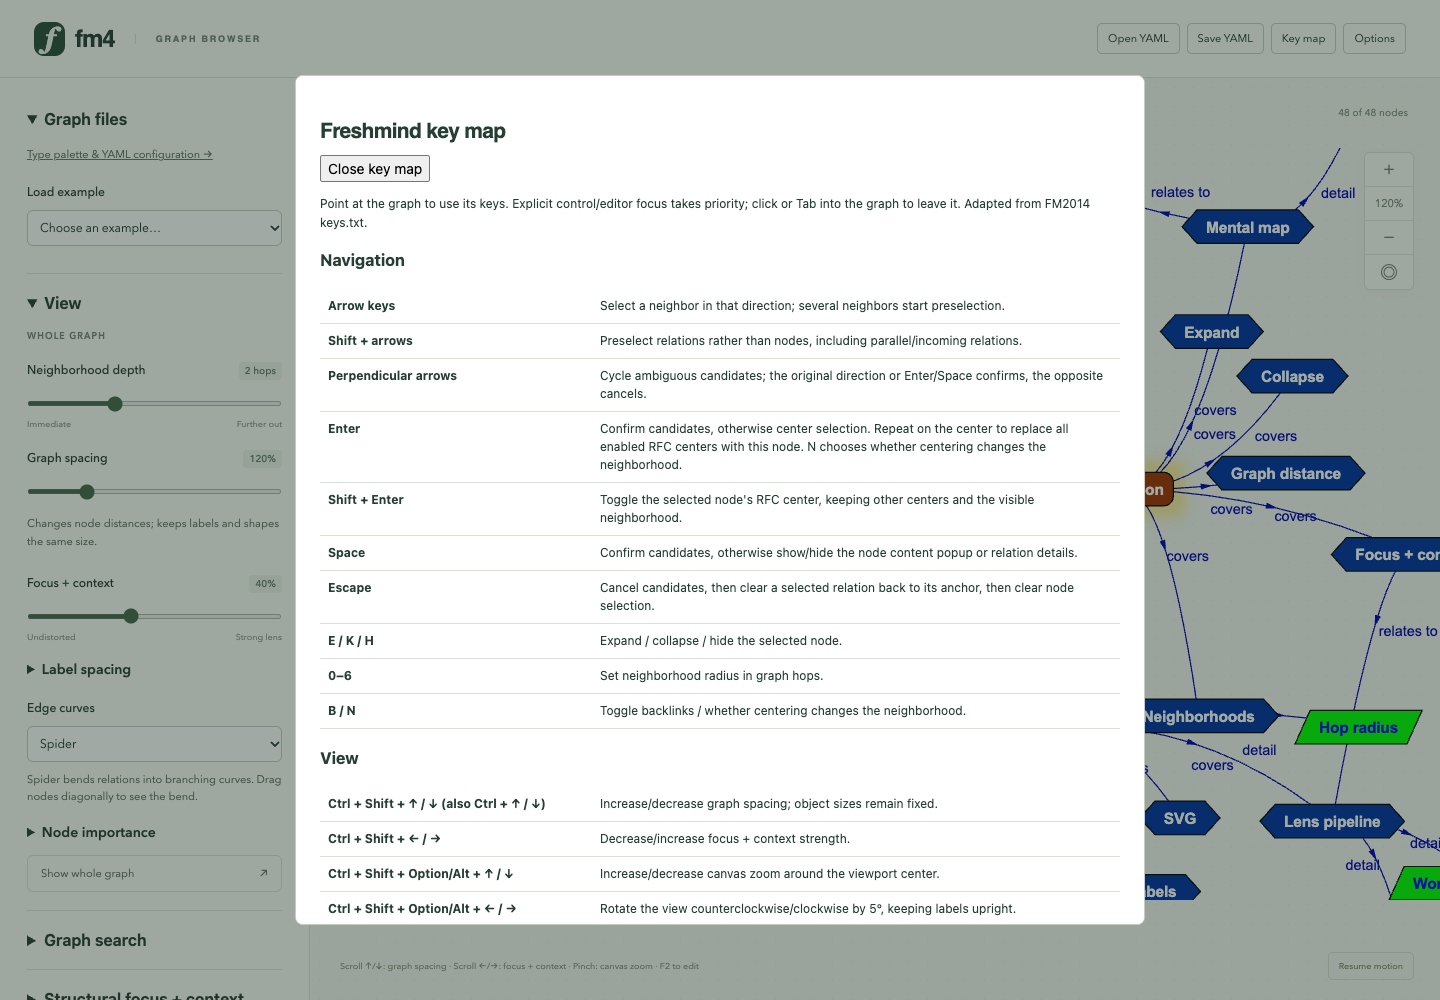
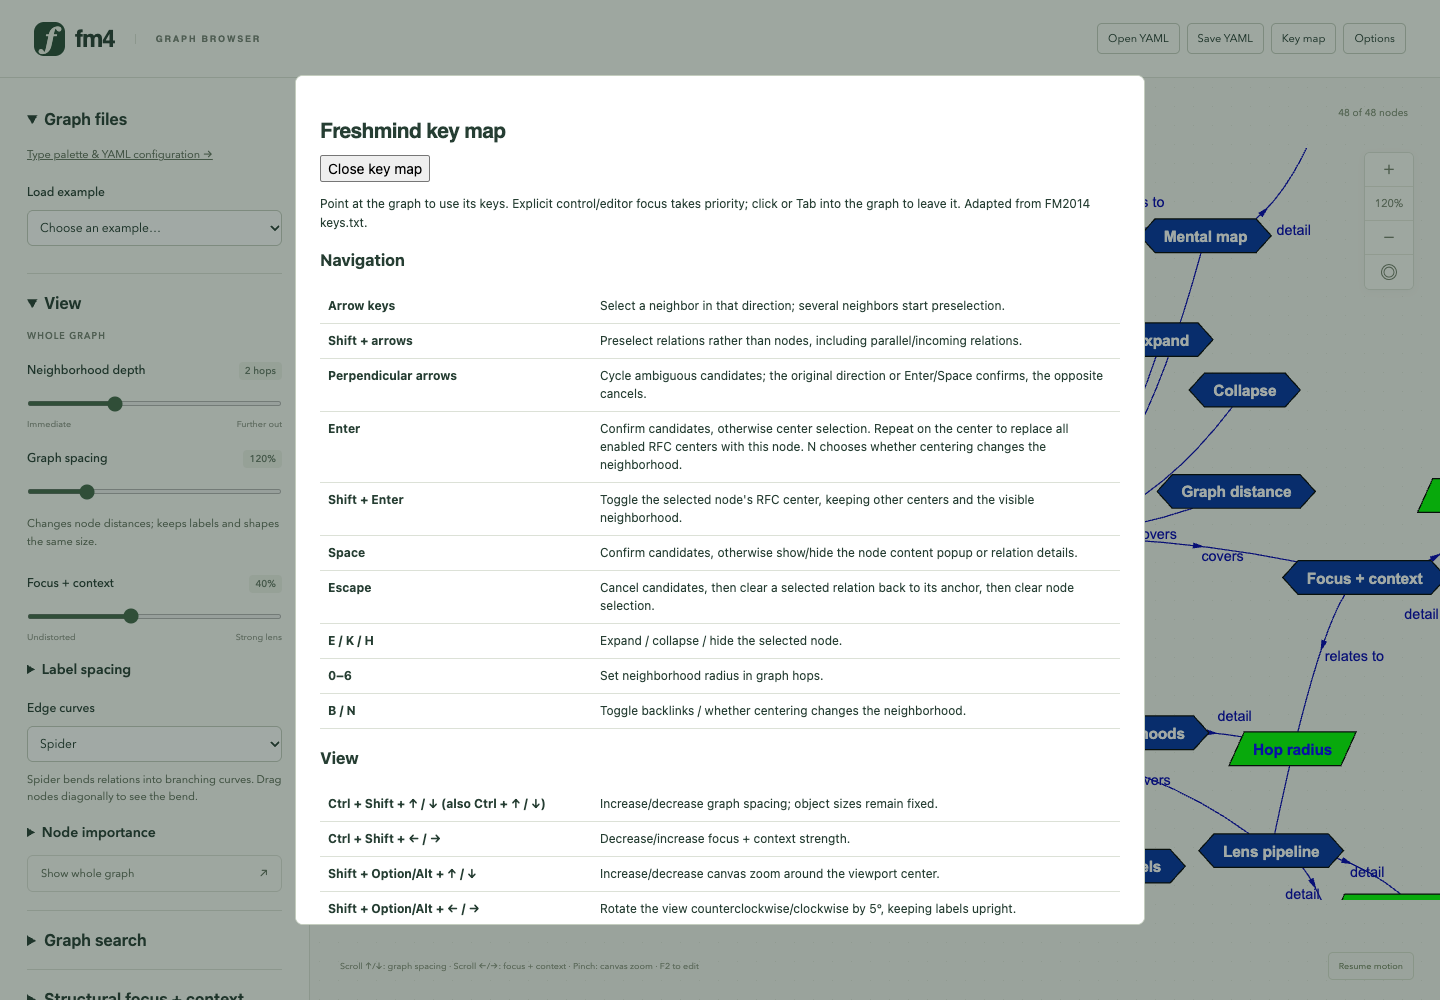
Simplify canvas zoom and rotation to Shift Option arrows

Changed region(s): [[0.7812, 0.31, 1.0, 0.899], [0.7812, 0.186, 0.9375, 0.279], [0.2188, 0.868, 0.3438, 0.93]]

diff --git a/index.html b/index.html
@@ -175,8 +175,8 @@
             <input id="candidate-timeout" type="number" required min="0" max="9007199254740991" step="1" value="2500" />
           <p class="control-help">Arrows: nodes · Shift+arrows: relations · Enter: confirm/center · Esc: cancel · E/K/H: expand/collapse/hide</p>
           <p class="control-help">Ctrl+Shift+↑/↓: graph spacing · Ctrl+Shift+←/→: focus + context</p>
-          <p class="control-help">Ctrl+Shift+Option/Alt+↑/↓ or +/−: canvas zoom · Ctrl+Shift+1: reset canvas zoom</p>
-          <p class="control-help">Ctrl+Shift+Option/Alt+←/→: graph rotation</p>
+          <p class="control-help">Shift+Option/Alt+↑/↓ or +/−: canvas zoom · Ctrl+Shift+1: reset canvas zoom</p>
+          <p class="control-help">Shift+Option/Alt+←/→: graph rotation</p>
           </details>
           <p id="navigation-status" class="control-help" role="status" aria-live="polite" aria-atomic="true"></p>
           <details class="sidebar-section inspector" id="selection-section" open><summary>Selected item</summary>
@@ -207,7 +207,7 @@
         <section class="workspace" aria-label="Graph workspace">
           <div class="canvas-heading"><span id="graph-count"></span></div>
           <div id="graph"></div>
-          <div class="canvas-tools" role="group" aria-label="Canvas zoom"><button id="zoom-in" aria-label="Canvas zoom in" title="Canvas zoom in (Ctrl+Shift+Option/Alt+↑ or +)">+</button><button id="zoom-reset" aria-label="Reset canvas zoom" title="Reset canvas zoom to 100% (Ctrl+Shift+1)">100%</button><button id="zoom-out" aria-label="Canvas zoom out" title="Canvas zoom out (Ctrl+Shift+Option/Alt+↓ or −)">−</button><button id="center" aria-label="Center view" title="Center view">◎</button></div>
+          <div class="canvas-tools" role="group" aria-label="Canvas zoom"><button id="zoom-in" aria-label="Canvas zoom in" title="Canvas zoom in (Shift+Option/Alt+↑ or +)">+</button><button id="zoom-reset" aria-label="Reset canvas zoom" title="Reset canvas zoom to 100% (Ctrl+Shift+1)">100%</button><button id="zoom-out" aria-label="Canvas zoom out" title="Canvas zoom out (Shift+Option/Alt+↓ or −)">−</button><button id="center" aria-label="Center view" title="Center view">◎</button></div>
           <div class="canvas-footer"><span>Scroll ↑/↓: graph spacing · Scroll ←/→: focus + context · Pinch: canvas zoom · F2 to edit</span><button id="motion">Pause motion</button></div>
         </section>
       </main>

diff --git a/freshmind.html b/freshmind.html
@@ -25,8 +25,8 @@ See LICENSE-APACHE-2.0 for the license text.
           <label class="control-label lens-label" for="hyper">Focus + context</label>
           <input type="range" id="hyper" min="0" max="100" value="0" />
           <p class="control-help">Ctrl+Shift+↑/↓: graph spacing · Ctrl+Shift+←/→: focus + context</p>
-          <p class="control-help">Ctrl+Shift+Option/Alt+↑/↓ or +/−: canvas zoom · Ctrl+Shift+1: reset canvas zoom</p>
-          <p class="control-help">Ctrl+Shift+Option/Alt+←/→: graph rotation</p>
+          <p class="control-help">Shift+Option/Alt+↑/↓ or +/−: canvas zoom · Ctrl+Shift+1: reset canvas zoom</p>
+          <p class="control-help">Shift+Option/Alt+←/→: graph rotation</p>
           <button class="quiet-button" id="motion">Run layout</button>
           <button class="quiet-button" id="show-all">Show all types</button>
           <section class="inspector"><h2>YAML type configuration</h2>
@@ -39,7 +39,7 @@ See LICENSE-APACHE-2.0 for the license text.
         </aside>
         <section class="workspace" aria-label="Freshmind graph workspace">
           <div class="canvas-heading">TYPES &amp; RELATIONS</div><div id="graph"></div>
-          <div class="canvas-tools" role="group" aria-label="Canvas zoom"><button id="zoom-in" aria-label="Canvas zoom in" title="Canvas zoom in (Ctrl+Shift+Option/Alt+↑ or +)">+</button><button id="zoom-reset" aria-label="Reset canvas zoom" title="Reset canvas zoom to 100% (Ctrl+Shift+1)">100%</button><button id="zoom-out" aria-label="Canvas zoom out" title="Canvas zoom out (Ctrl+Shift+Option/Alt+↓ or −)">−</button></div>
+          <div class="canvas-tools" role="group" aria-label="Canvas zoom"><button id="zoom-in" aria-label="Canvas zoom in" title="Canvas zoom in (Shift+Option/Alt+↑ or +)">+</button><button id="zoom-reset" aria-label="Reset canvas zoom" title="Reset canvas zoom to 100% (Ctrl+Shift+1)">100%</button><button id="zoom-out" aria-label="Canvas zoom out" title="Canvas zoom out (Shift+Option/Alt+↓ or −)">−</button></div>
           <div class="canvas-footer"><span>Scroll ↑/↓: graph spacing · Scroll ←/→: focus + context · Pinch: canvas zoom</span></div>
         </section>
       </main>

diff --git a/src/fm/navigate/keymap.ts b/src/fm/navigate/keymap.ts
@@ -19,8 +19,8 @@ export const keymap = [
   {group: "Navigation", keys: "B / N", action: "Toggle backlinks / whether centering changes the neighborhood."},
   {group: "View", keys: "Ctrl + Shift + ↑ / ↓ (also Ctrl + ↑ / ↓)", action: "Increase/decrease graph spacing; object sizes remain fixed."},
   {group: "View", keys: "Ctrl + Shift + ← / →", action: "Decrease/increase focus + context strength."},
-  {group: "View", keys: "Ctrl + Shift + Option/Alt + ↑ / ↓", action: "Increase/decrease canvas zoom around the viewport center."},
-  {group: "View", keys: "Ctrl + Shift + Option/Alt + ← / →", action: "Rotate the view counterclockwise/clockwise by 5°, keeping labels upright."},
+  {group: "View", keys: "Shift + Option/Alt + ↑ / ↓", action: "Increase/decrease canvas zoom around the viewport center."},
+  {group: "View", keys: "Shift + Option/Alt + ← / →", action: "Rotate the view counterclockwise/clockwise by 5°, keeping labels upright."},
   {group: "View", keys: "Ctrl + Shift + 1", action: "Reset canvas zoom to 100%, keeping the viewport center."},
   {group: "View", keys: "+ / − (also =)", action: "Additional canvas zoom controls."},
   {group: "View", keys: "C / W", action: "Cycle default edge forms: Spider → Lens midpoint → Straight. Explicit relation overrides are preserved. C matches FM2014."},

diff --git a/src/fm/navigate/controller.ts b/src/fm/navigate/controller.ts
@@ -280,11 +280,11 @@ export class FreshmindNavigation {
   private run(operation: Promise<void>): void {
     void operation.catch(error => { if (!this.disposed) { this.message = error instanceof Error ? error.message : String(error); this.publish(); } });
   }
-  /** Handles graph-scoped keys, including explicit Ctrl view shortcuts; other modifier chords pass through. */
+  /** Handles graph-scoped keys, including Ctrl and Shift+Alt view shortcuts; other chords pass through. */
   handleKey(event: NavigationKey): boolean {
     if (this.disposed || event.metaKey || event.isComposing) return false;
     if (event.altKey) {
-      if (!event.ctrlKey || !event.shiftKey) return false;
+      if (event.ctrlKey || !event.shiftKey) return false;
       if (event.key === "ArrowLeft" || event.key === "ArrowRight") this.rotateBy((event.key === "ArrowRight" ? 1 : -1) * Math.PI / 36);
       else if (event.key === "ArrowUp" || event.key === "ArrowDown") this.canvasZoomBy(1.2 ** (event.key === "ArrowUp" ? 1 : -1));
       else return false;

diff --git a/docs/DONE.md b/docs/DONE.md
@@ -12,9 +12,16 @@ This is the implementation record for [TODO.md](TODO.md). Entries include comple
 | 4. Graph visual search | Current implementation retained | Lexical/LDA graph interactions remain available; future backend replacement (4.8–4.12) is deferred. Use elasticlunr if an external literal-search library becomes necessary. |
 | 5. Readability | Node and relation-label increments complete | Measured node separation with pinned/focus/drag protection and overlap counts; bounded automatic relation-label placement with shared editor anchors. |
 
-RFC experiment documentation (**3.5**) is complete for the implemented comparisons. The [second draft](papers/rfc-revisited-draft2.md) retains eleven original drawings and adds a synthesis of [companion Experiments F–H](experiments/rfc-followup/README.md), with eight further drawings in the companion reports. Multiple-tree Experiments C–E cover 120 matched runs; F–H add 780 damping/rigidity, nonuniform-importance and cluster comparisons. DAG templates have functional verification only. Exclusion Experiment I adds 100 runs and three further drawings. [Hybrid Experiment J](experiments/rfc-hybrid/README.md) adds 160 runs and three diagrams. The [current capability showcase](rfc-showcase.md) provides six production-browser views of a new typed community. Current verification passes 246 core tests, all 112 Chrome browser tests, type checking and library/demo builds. Earlier entries retain the test counts and scope at their respective checkpoints.
+RFC experiment documentation (**3.5**) is complete for the implemented comparisons. The [second draft](papers/rfc-revisited-draft2.md) retains eleven original drawings and adds a synthesis of [companion Experiments F–H](experiments/rfc-followup/README.md), with eight further drawings in the companion reports. Multiple-tree Experiments C–E cover 120 matched runs; F–H add 780 damping/rigidity, nonuniform-importance and cluster comparisons. DAG templates have functional verification only. Exclusion Experiment I adds 100 runs and three further drawings. [Hybrid Experiment J](experiments/rfc-hybrid/README.md) adds 160 runs and three diagrams. The [current capability showcase](rfc-showcase.md) provides six production-browser views of a new typed community. Current verification passes 246 core tests, type checking and library/demo builds. The latest full Chrome checkpoint passed 112 tests; the subsequent shortcut revision passes 30 focused browser cases. Earlier entries retain the test counts and scope at their respective checkpoints.
 
 Milestones **1–3** are complete within their agreed scope. Original-figure reproduction (**3.3.1**) was removed from scope at the user's request on 2026-10-24; it is not claimed as implemented. Experiment J completes the final planned RFC comparison (**3.4.2**). The [search report](experiments/search/README.md) completed the earlier prototype task **4.6**; the latest scope retains the current implementation and defers backend replacement. Milestone **5** addresses node separation and relation-label placement. Earlier entries below describe the prototype at their respective checkpoints. Numerical regularity, low motion, force balance and successful synthetic retrieval checks do not establish general convergence, perceptual benefit or real-world search quality.
+
+## Simpler canvas and rotation shortcuts — 2026-10-24
+
+- Completes **2.3.15**. Shift+Option/Alt+↑/↓ scales the canvas; Shift+Option/Alt+←/→ rotates by 5°. The former three-modifier chords pass through. Graph spacing/focus-context shortcuts and Ctrl+Shift+1 reset retain their existing mappings. Explicit inputs and editors retain native selection/caret behavior.
+- Updated the shared key definitions, generated key map, both browser pages' help/tooltips and feature guide. Logic and browser regressions use the new chords and check modifier rejection, held-key repeats, bounds, preserved graph/navigation state and text-editor isolation. Earlier entries retain their original shortcut mappings as checkpoint history.
+
+- Verification: `just check` passes **246 core tests**, type checking and library/demo builds. All **30 focused Chrome tests pass** across zoom, navigation, content and editing/I/O on the main and palette pages. The production key-map capture is refreshed from the existing tour. README and its recipes are unchanged; documentation links and whitespace check out.
 
 ## Pointer-activated graph keyboard control — 2026-10-24
 

diff --git a/docs/TODO.md b/docs/TODO.md
@@ -47,16 +47,17 @@ Keep the existing TouchGraph design as the foundation. Add Freshmind through mod
   - [x] 2.3.2 Restore directional neighbor/edge navigation, candidate highlighting/cycling, confirmation, cancellation and timeout behavior.
   - [x] 2.3.3 Integrate mouse selection, keyboard shortcuts, details and editing without intercepting text-entry or browser controls.
   - [x] 2.3.4 Verify radius/backlink/degree limits, centering, expansion, collapse and hide behavior with the selection model.
-  - [x] 2.3.5 Add Ctrl+Shift+↑/↓ graph spacing (also Ctrl+↑/↓), Ctrl+Shift+←/→ focus + context, and Ctrl+Shift+Option/Alt+↑/↓ / Ctrl+Shift+1 canvas zoom/reset controls, keeping view controls synchronized and text entry unaffected.
+  - [x] 2.3.5 Add Ctrl+Shift+↑/↓ graph spacing (also Ctrl+↑/↓), Ctrl+Shift+←/→ focus + context, and Shift+Option/Alt+↑/↓ / Ctrl+Shift+1 canvas zoom/reset controls, keeping view controls synchronized and text entry unaffected.
   - [x] 2.3.6 Separate graph-distance zoom from canvas scaling, expose both controls and preserve inverse interaction, centering and physical coordinates through their composition.
   - [x] 2.3.7 Map vertical scrolling to graph spacing, horizontal two-finger scrolling to focus + context and pinch/Ctrl+wheel to canvas zoom, preserving text-editor input and graph/navigation state.
   - [x] 2.3.8 Adapt the reference `keys.txt` into a user key map and accessible browser help, showing implemented commands and documenting changes from Java.
-  - [x] 2.3.9 Add Ctrl+Shift+Option/Alt+←/→ view rotation, retaining physical positions, upright labels and navigation state.
+  - [x] 2.3.9 Add Shift+Option/Alt+←/→ view rotation, retaining physical positions, upright labels and navigation state.
   - [x] 2.3.10 Restore C to cycle default edge forms, with W as an alias; synchronize the browser selector and key map while preserving explicit relation overrides and text-editor input.
   - [x] 2.3.11 Highlight selected relations on their rendered line, matching the Java selection color; replace browser bounding-box focus frames with stroke emphasis, including curves, parallel relations and self-loops on both pages.
   - [x] 2.3.12 Group left-pane controls into collapsible sections with larger headings, retaining values and keyboard access to a collapsed inspector.
   - [x] 2.3.13 Restore FM2014 quick/literal/topic query, similarity and index/training shortcuts through optional graph-scoped actions, retaining current search backends and text-input behavior.
   - [x] 2.3.14 Let pointer entry resume graph keyboard control from the centered node without a click; preserve explicit side-pane/editor focus, selection-driven navigation, stationary-pointer recovery and listener cleanup.
+  - [x] 2.3.15 Simplify canvas zoom and rotation from Ctrl+Shift+Option/Alt arrows to Shift+Option/Alt arrows, updating help/tooltips while retaining native editor input and other view shortcuts.
 - [x] 2.4 Port labeling and the associated editors.
   - [x] 2.4.1 Restore multiline labels, node details, annotations, URLs, relation labels and hidden-link counts shown in the thesis example.
   - [x] 2.4.2 Add node/relation editors for labels, types, visual overrides and associated metadata, preserving stable IDs.

diff --git a/docs/KEYMAP.md b/docs/KEYMAP.md
@@ -25,8 +25,8 @@ Point at the graph to give its centered node keyboard control without a click wh
 | --- | --- |
 | Ctrl + Shift + ↑ / ↓ (also Ctrl + ↑ / ↓) | Increase/decrease graph spacing; object sizes remain fixed. |
 | Ctrl + Shift + ← / → | Decrease/increase focus + context strength. |
-| Ctrl + Shift + Option/Alt + ↑ / ↓ | Increase/decrease canvas zoom around the viewport center. |
-| Ctrl + Shift + Option/Alt + ← / → | Rotate the view counterclockwise/clockwise by 5°, keeping labels upright. |
+| Shift + Option/Alt + ↑ / ↓ | Increase/decrease canvas zoom around the viewport center. |
+| Shift + Option/Alt + ← / → | Rotate the view counterclockwise/clockwise by 5°, keeping labels upright. |
 | Ctrl + Shift + 1 | Reset canvas zoom to 100%, keeping the viewport center. |
 | + / − (also =) | Additional canvas zoom controls. |
 | C / W | Cycle default edge forms: Spider → Lens midpoint → Straight. Explicit relation overrides are preserved. C matches FM2014. |
@@ -84,7 +84,7 @@ Point at the graph to give its centered node keyboard control without a click wh
 
 ## Differences from the Java key map
 
-Graph spacing uses Ctrl+Shift+↑/↓ (also Ctrl+↑/↓), canvas zoom uses Ctrl+Shift+Option/Alt+↑/↓, and focus/context uses Ctrl+Shift+←/→. Ctrl+Shift+Option/Alt+←/→ rotates the view by 5° per press while keeping labels upright. Canvas reset retains Ctrl+Shift+1. FM2014 used Ctrl+Shift+↑/↓ for canvas zoom; the old map also used Alt arrows and Ctrl arrows for panning. +/− now scales the canvas, whereas Java used it for graph spacing. Drag the background to pan. Ordinary selection keeps the neighborhood; Enter/double-click and N control centering.
+Graph spacing uses Ctrl+Shift+↑/↓ (also Ctrl+↑/↓), canvas zoom uses Shift+Option/Alt+↑/↓, and focus/context uses Ctrl+Shift+←/→. Shift+Option/Alt+←/→ rotates the view by 5° per press while keeping labels upright. Canvas reset retains Ctrl+Shift+1. FM2014 used Ctrl+Shift+↑/↓ for canvas zoom; the old map also used Alt arrows and Ctrl arrows for panning. +/− now scales the canvas, whereas Java used it for graph spacing. Drag the background to pan. Ordinary selection keeps the neighborhood; Enter/double-click and N control centering.
 
 Clipboard graph operations, parent/child/sibling creation shortcuts, 3D controls, control-panel toggles and SVG export are not implemented shortcuts. Search shortcuts follow FM2014 but use the retained lexical/LDA prototype; Ctrl+I checks a literal snapshot, and literal queries automatically index current text. No Lucene dependency is added; see [the search guide](graph-search.md). File saving downloads YAML rather than overwriting a selected local file; Ctrl/Cmd+Shift+S opens the filename field. The numeric =weight suffix is supported in label editors. Other legacy type/style suffixes use explicit fields and YAML visual settings. Ctrl+G/H adjusts a draft and requires Save; details editing uses an overlay rather than the side pane.
 

diff --git a/docs/fm_port-design.md b/docs/fm_port-design.md
@@ -154,8 +154,8 @@ Freeze this ordering when preselection begins so spring motion cannot reshuffle 
 | `N` | Toggle `moveToCenter`. |
 | Ctrl+Shift+↑ / Ctrl+Shift+↓ (also Ctrl+↑ / Ctrl+↓) | Increase/decrease graph spacing by a factor of 1.2 through the panel limits (0.15–5). |
 | Ctrl+Shift+← / Ctrl+Shift+→ | Decrease/increase focus + context strength by five percentage points, clamped to 0–100. |
-| Ctrl+Shift+Option/Alt+↑ / Ctrl+Shift+Option/Alt+↓ | Increase/decrease whole-canvas scale by a factor of 1.2, independently of graph spacing. |
-| Ctrl+Shift+Option/Alt+← / Ctrl+Shift+Option/Alt+→ | Rotate counterclockwise/clockwise by 5° through the existing rotation lens; labels stay upright. |
+| Shift+Option/Alt+↑ / Shift+Option/Alt+↓ | Increase/decrease whole-canvas scale by a factor of 1.2, independently of graph spacing. |
+| Shift+Option/Alt+← / Shift+Option/Alt+→ | Rotate counterclockwise/clockwise by 5° through the existing rotation lens; labels stay upright. |
 | Ctrl+Shift+1 | Reset canvas scale to 100%, retaining the viewport center. |
 | Vertical scroll / pinch | Vertical scrolling changes graph spacing; pinch (Ctrl+wheel) scales the canvas around the pointer. Horizontal scrolling changes focus/context. |
 | F2 | Edit the selected label. |
